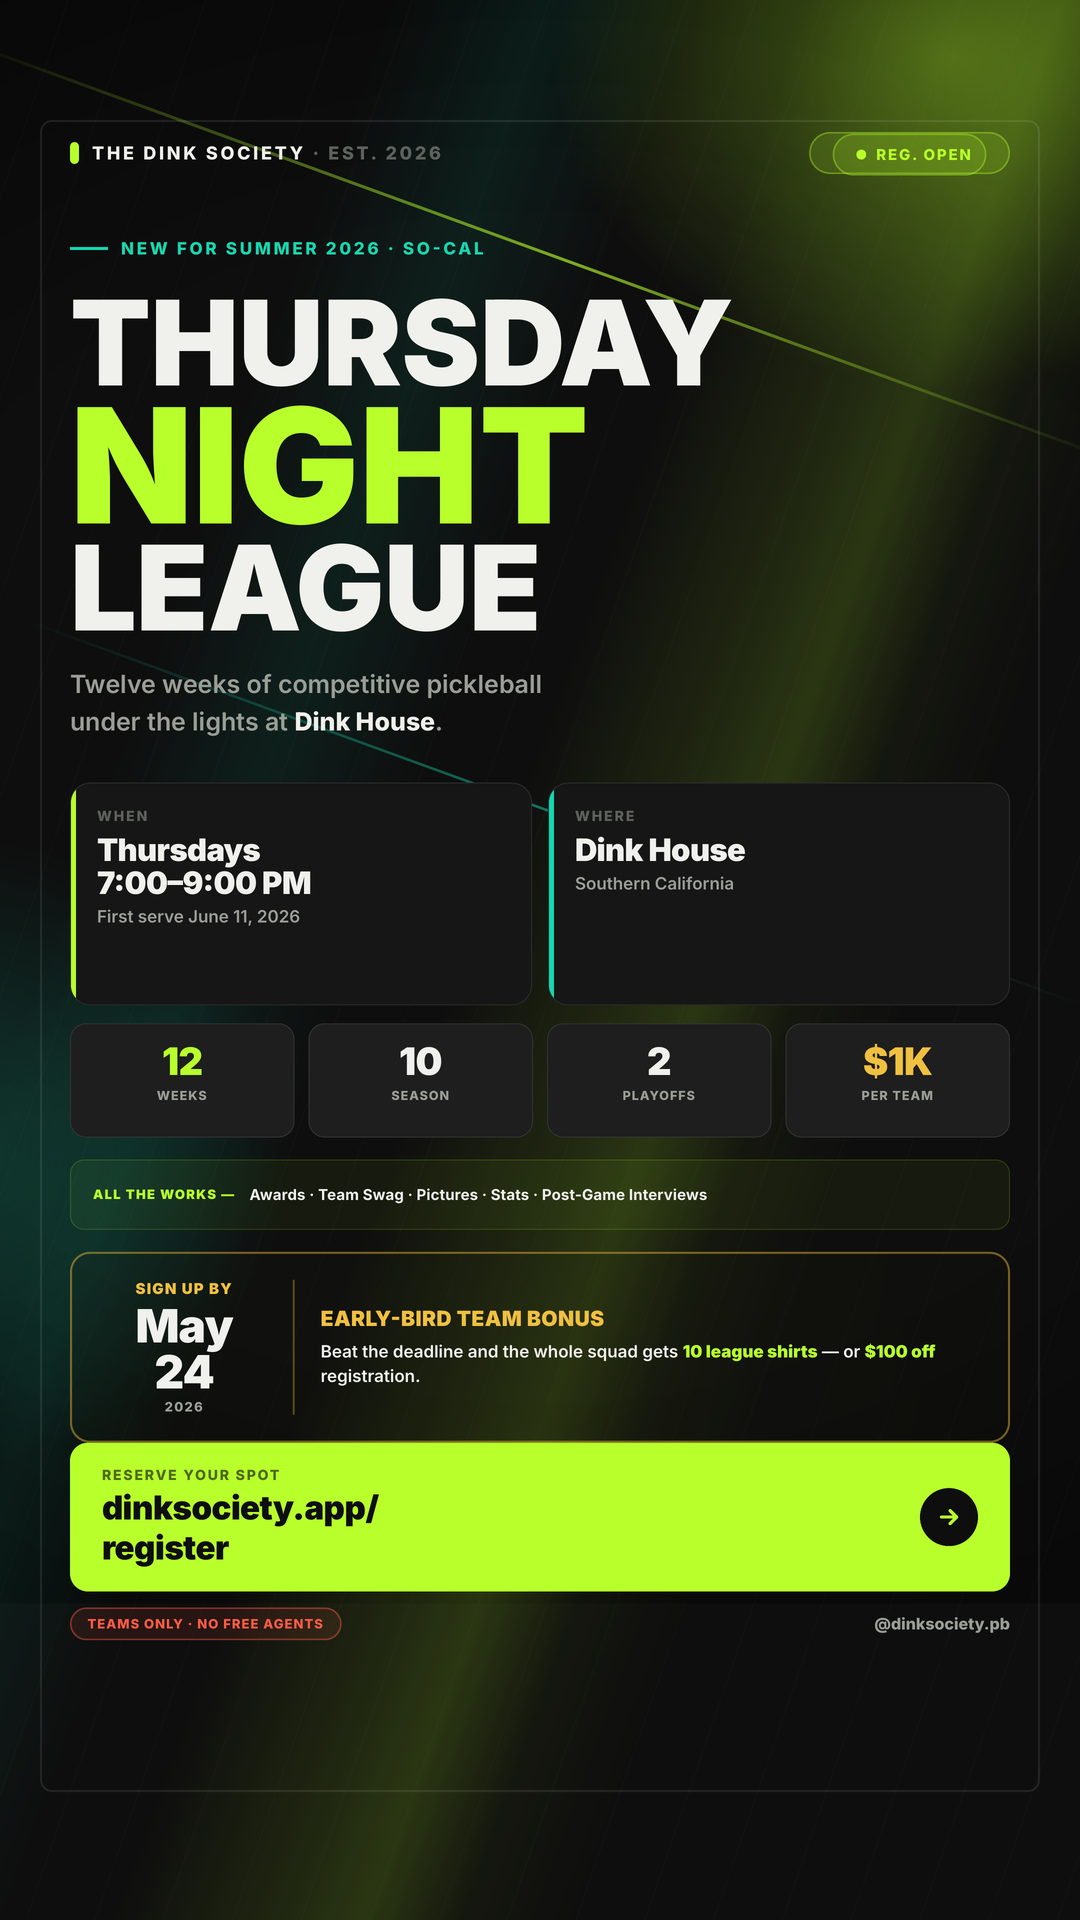
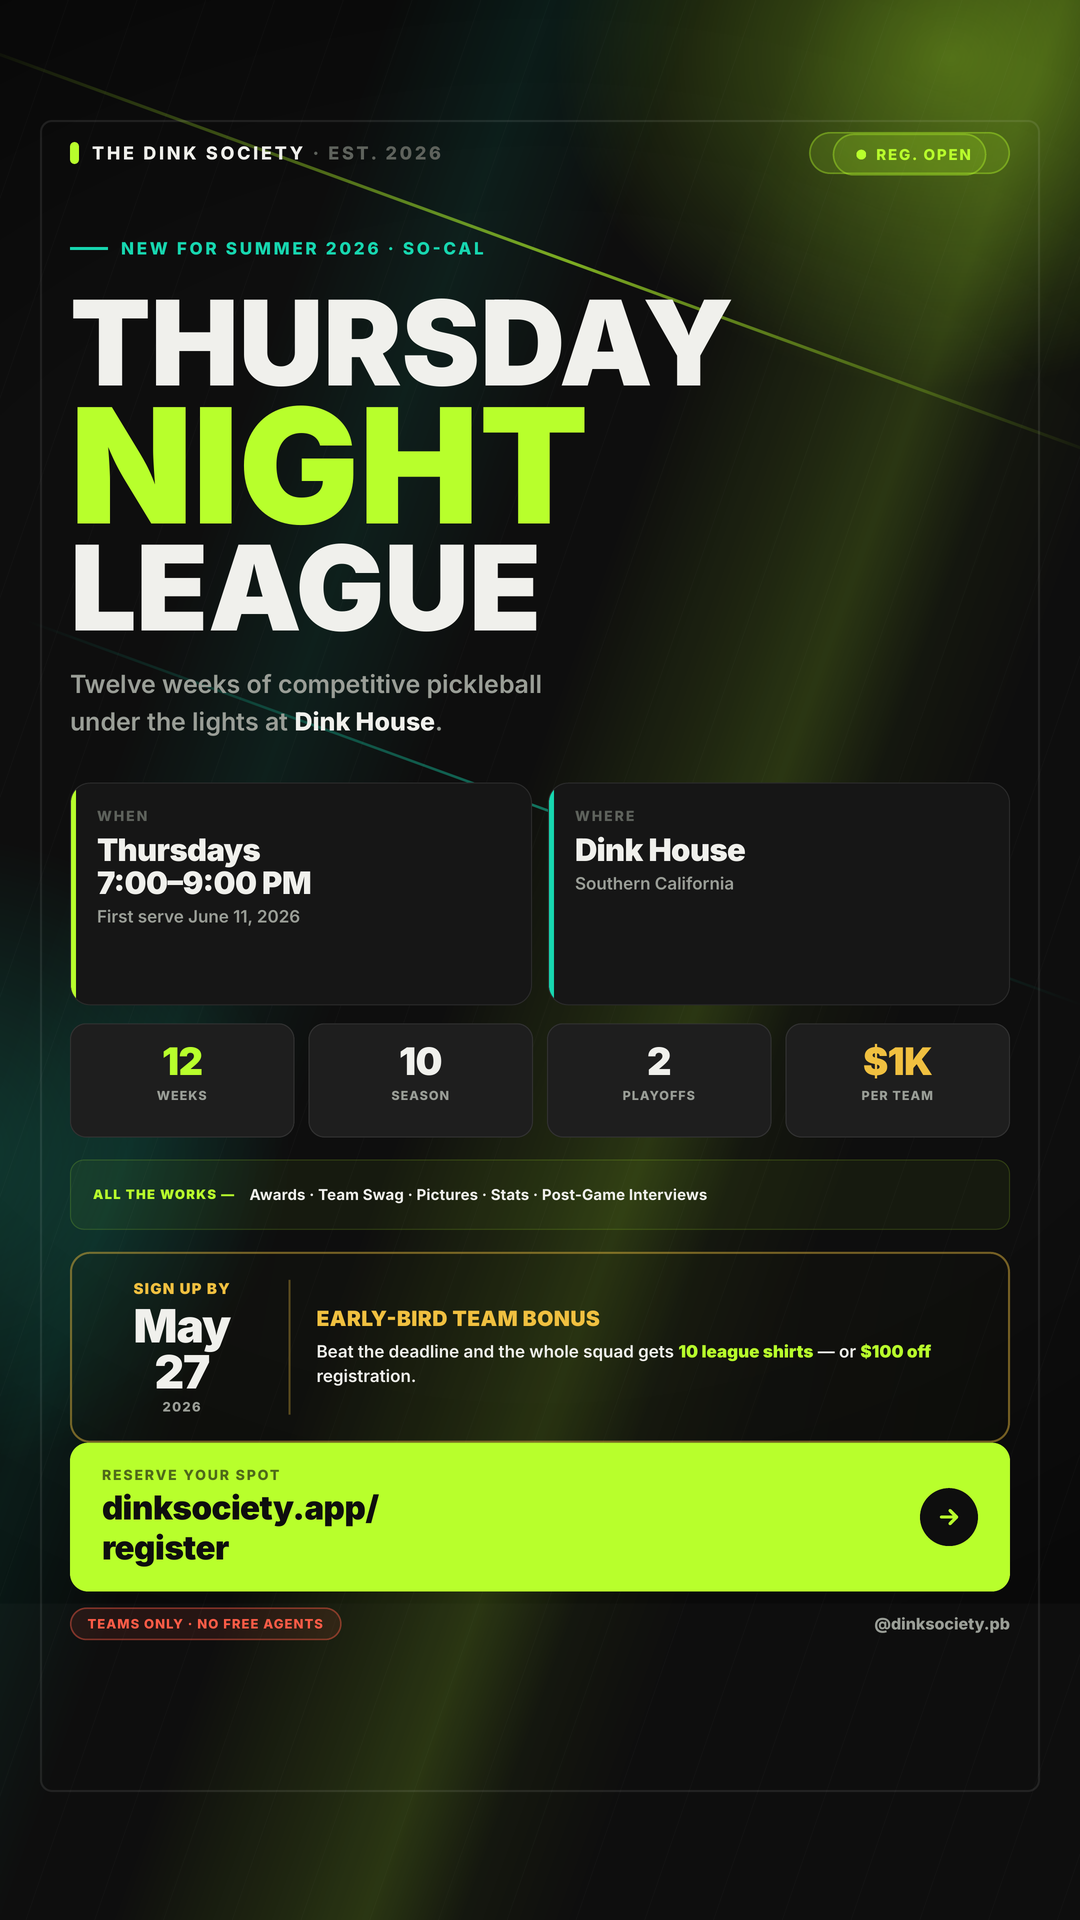
Circuit ONE update - 3.0-3.5 Mixed division, ,000 team fee, no free agent, 12-week format, rules + homepage refresh

Changed region(s): [[0.2444, 0.6562, 0.7639, 0.7188], [0.1222, 0.6562, 0.2139, 0.75], [0.7944, 0.6875, 0.8556, 0.7188]]

diff --git a/public/index.html b/public/index.html
@@ -339,10 +339,11 @@
         Bring your A-game — <strong>the Society keeps receipts.</strong>
       </p>
       <div class="hero__stats">
-        <div class="hero__stat"><div class="hero__stat-num">ONE</div><div class="hero__stat-label">Circuit · June 2026</div></div>
+        <div class="hero__stat"><div class="hero__stat-num">ONE</div><div class="hero__stat-label">Circuit · Jun 2026</div></div>
         <div class="hero__stat"><div class="hero__stat-num">6</div><div class="hero__stat-label">Teams</div></div>
-        <div class="hero__stat"><div class="hero__stat-num">7–9</div><div class="hero__stat-label">PM Match Nights</div></div>
+        <div class="hero__stat"><div class="hero__stat-num">3.0–3.5</div><div class="hero__stat-label">Mixed Division</div></div>
         <div class="hero__stat"><div class="hero__stat-num">12</div><div class="hero__stat-label">Weeks</div></div>
+        <div class="hero__stat"><div class="hero__stat-num">1</div><div class="hero__stat-label">Champion</div></div>
       </div>
       <div class="hero__ctas">
         <a href="/register.html" class="hero__btn hero__btn--lime">Reserve my spot</a>
@@ -377,13 +378,13 @@
           Real divisions. Real points. <span class="teal">Real hardware for the winners.</span>
         </p>
         <p>
-          Every Circuit runs <strong>ten weeks</strong> of round-robin, then a
-          two-week playoff. Points carry from Circuit to Circuit, so yeah —
+          Every Circuit runs <strong>ten weeks</strong> of round-robin play across the
+          skill-based division. Points carry from Circuit to Circuit, so yeah —
           <strong>showing up matters.</strong> Your ranking follows you. Your reputation precedes you.
         </p>
         <p>
-          Whether you're newly minted at 3.5 or a seasoned 3.5+ who
-          lives for the ernie — there's a spot with your name on it. Come
+          Whether you're a 3.0 still figuring out your third shot or a 3.5+ who
+          lives for the ernie — there's a bracket with your name on it. Come
           for the games, stay for the post-match trash talk.
         </p>
         <div class="tags">
@@ -418,7 +419,7 @@
       <div class="how-card">
         <div class="how-card__num">6</div>
         <div class="how-card__label">Teams</div>
-        <div class="how-card__desc">Six teams in the 3.5+ Mixed division. Register your team of four — the captain builds the roster.</div>
+        <div class="how-card__desc">Six teams in the 3.0–3.5 Mixed division. Register your team of four — the captain builds the roster.</div>
       </div>
       <div class="how-card">
         <div class="how-card__num">12</div>
@@ -427,8 +428,8 @@
       </div>
       <div class="how-card">
         <div class="how-card__num">1</div>
-        <div class="how-card__label">Gold Title</div>
-        <div class="how-card__desc">One champion crowned per division. Winners get the medal, the bragging rights, and the top spot.</div>
+        <div class="how-card__label">Champion</div>
+        <div class="how-card__desc">One champion crowned at the end of the playoffs. Winners get the medal, the bragging rights, and the top spot.</div>
       </div>
     </div>
   </section>
@@ -454,10 +455,10 @@
     <div class="timeline-grid">
       <div class="tl-time">:00</div>
       <div class="tl-block">
-        <div class="tl-title">Check In & Warm Up</div>
-        <div class="tl-desc">Lineups are already locked — captains set them online 24 hours ahead in the Captain Portal. Check in 30 minutes early, confirm court assignments, get loose.</div>
+        <div class="tl-title">Arrive & Warm-Up</div>
+        <div class="tl-desc">Captains log into the app ten minutes before play. Confirm court assignments, get loose.</div>
       </div>
-      <div class="tl-time">:15</div>
+      <div class="tl-time">:10</div>
       <div class="tl-block">
         <div class="tl-title">Round 1 · Six Games</div>
         <div class="tl-desc">Home serves first, away chooses side. Women's doubles, men's doubles, then four mixed games. Most games won wins the round — 2 points for the win, 1 for a tie.</div>
@@ -467,10 +468,10 @@
         <div class="tl-title">Round 2 · Six Games</div>
         <div class="tl-desc">Sides flip. Home chooses side, away serves first. Same lineup structure. Another 2 points on the line.</div>
       </div>
-      <div class="tl-time">1:45</div>
+      <div class="tl-time">1:35</div>
       <div class="tl-block">
-        <div class="tl-title">Sign the Scoresheet & Stay</div>
-        <div class="tl-desc">Both captains sign off — either on paper or electronically. Scores go straight into the Circuit leaderboard. Then it's the after-court round, which is where the Society actually lives.</div>
+        <div class="tl-title">Sign the Digital Scoresheet & Stay</div>
+        <div class="tl-desc">Both captains sign off — electronically. Scores go straight into the Circuit leaderboard. Then it's the after-court round, which is where the Society actually lives.</div>
       </div>
     </div>
   </section>
@@ -504,7 +505,7 @@
     <div class="cta-hero__overlay"></div>
     <div class="cta-hero__content">
       <h2 class="cta-hero__headline">CIRCUIT ONE OPENS FOR <span style="color:var(--color-lime)">SIGNUPS NOW.</span></h2>
-      <p class="cta-hero__sub">June 11, 2026 start · 3.5+ Mixed · Thursdays 7–9 PM</p>
+      <p class="cta-hero__sub">June 11, 2026 start · 3.0–3.5 Mixed · Thursdays 7–9 PM</p>
       <a href="/register.html" class="hero__btn hero__btn--lime">Reserve my spot</a>
     </div>
   </section>

diff --git a/public/admin.html b/public/admin.html
@@ -674,11 +674,11 @@
       }
       // Fallback if no divisions configured yet
       if (DIVISIONS.length === 0) {
-        DIVISIONS = [{ id: '3.5M', name: '3.5+ Mixed' }];
+        DIVISIONS = [{ id: '3.5M', name: '3.0–3.5 Mixed' }];
       }
     } catch (e) {
       console.warn('Failed to load divisions:', e);
-      DIVISIONS = [{ id: '3.5M', name: '3.5+ Mixed' }];
+      DIVISIONS = [{ id: '3.5M', name: '3.0–3.5 Mixed' }];
     }
   }
 

diff --git a/public/leaderboard.html b/public/leaderboard.html
@@ -79,7 +79,7 @@
   <main class="lb-shell">
     <div class="lb-controls">
         <select id="circuit-select"><option value="I">Circuit ONE</option></select>
-        <select id="division-select"><option value="">All divisions</option><option value="3-5-mixed">3.5+ Mixed</option></select>
+        <select id="division-select"><option value="">All divisions</option><option value="3-5-mixed">3.0–3.5 Mixed</option></select>
       </div>
 
 
@@ -99,7 +99,7 @@
   <div data-partial="footer"></div>
 
   <script>
-    const DIVISION_LABELS={'3.0M':'3.0 Mixed','3.5M':'3.5+ Mixed','3.5W':"3.5 Women's",'3-0-mixed':'3.0 Mixed','3-5-mixed':'3.5+ Mixed'};
+    const DIVISION_LABELS={'3.0M':'3.0 Mixed','3.5M':'3.0–3.5 Mixed','3.5W':"3.5 Women's",'3-0-mixed':'3.0 Mixed','3-5-mixed':'3.0–3.5 Mixed'};
     const SLOT_TYPE_LABELS={womens:"Women's",mens:"Men's",mixed:'Mixed'};
     const state={circuit:'I',division:'',tab:'standings',playerFilter:'all',standings:null,playerStats:null};
     const $id=(id)=>document.getElementById(id);

diff --git a/public/register.html b/public/register.html
@@ -180,7 +180,7 @@
         <div class="reg-field">
           <div class="reg-field__label">Division</div>
           <div class="reg-divs" id="divisions">
-            <button type="button" class="reg-div is-selected" data-div="3.5M"><div class="reg-div__name">3.5+ Mixed</div><div class="reg-div__meta">Open</div></button>
+            <button type="button" class="reg-div is-selected" data-div="3.5M"><div class="reg-div__name">3.0–3.5 Mixed</div><div class="reg-div__meta">Open</div></button>
           </div>
         </div>
 
@@ -234,7 +234,7 @@
 
   <script>
     const TEAM_PRICE = 1000;
-    const DIVISION = { code: '3.5M', label: '3.5+ Mixed' };
+    const DIVISION = { code: '3.5M', label: '3.0–3.5 Mixed' };
     const state = { division: DIVISION.code, step: 1 };
 
     // Step navigation

diff --git a/public/contact.html b/public/contact.html
@@ -133,7 +133,7 @@
         </div>
         <div class="contact-info__block">
           <div class="contact-info__label">League</div>
-          <div class="contact-info__value">Circuit ONE &middot; Starts June 11, 2026<br>3.5+ Mixed &middot; Thursdays 7&ndash;9 PM</div>
+          <div class="contact-info__value">Circuit ONE &middot; Starts June 11, 2026<br>3.0–3.5 Mixed &middot; Thursdays 7&ndash;9 PM</div>
         </div>
       </div>
     </div>

diff --git a/public/schedule.html b/public/schedule.html
@@ -84,7 +84,7 @@
   <div data-partial="footer"></div>
   <script src="/js/partials.js"></script>
   <script>
-    const DIV_LABELS = { '3-0-mixed': '3.0 Mixed', '3-5-mixed': '3.5+ Mixed', '3.0M': '3.0 Mixed', '3.5M': '3.5+ Mixed' };
+    const DIV_LABELS = { '3-0-mixed': '3.0 Mixed', '3-5-mixed': '3.0–3.5 Mixed', '3.0M': '3.0 Mixed', '3.5M': '3.0–3.5 Mixed' };
     let scheduleData = null, currentWeek = 1;
     const $id = id => document.getElementById(id);
 

diff --git a/public/standings.html b/public/standings.html
@@ -105,7 +105,7 @@
   <div data-partial="footer"></div>
   <script src="/js/partials.js"></script>
   <script>
-    const DIVISION_LABELS = { '3-0-mixed': '3.0 Mixed', '3-5-mixed': '3.5+ Mixed' };
+    const DIVISION_LABELS = { '3-0-mixed': '3.0 Mixed', '3-5-mixed': '3.0–3.5 Mixed' };
     let standingsData = null;
     let activeDivision = '';
 

diff --git a/public/stats.html b/public/stats.html
@@ -80,7 +80,7 @@
   <div class="stats-shell">
     <div class="stats-body">
       <div class="tabs" id="stats-tabs">
-        <button class="tab is-active" data-division="3.5-mixed">3.5+ Mixed</button>
+        <button class="tab is-active" data-division="3.5-mixed">3.0–3.5 Mixed</button>
       </div>
       <div id="stats-content">
         <div class="empty-state">Stats will populate as matches are played and scores submitted.</div>

diff --git a/public/teams.html b/public/teams.html
@@ -118,7 +118,7 @@
   <div data-partial="footer"></div>
   <script src="/js/partials.js"></script>
   <script>
-    const DIVISION_LABELS = { '3-0-mixed': '3.0 Mixed', '3-5-mixed': '3.5+ Mixed' };
+    const DIVISION_LABELS = { '3-0-mixed': '3.0 Mixed', '3-5-mixed': '3.0–3.5 Mixed' };
     let allTeams = [];
     let activeDivision = '';
 